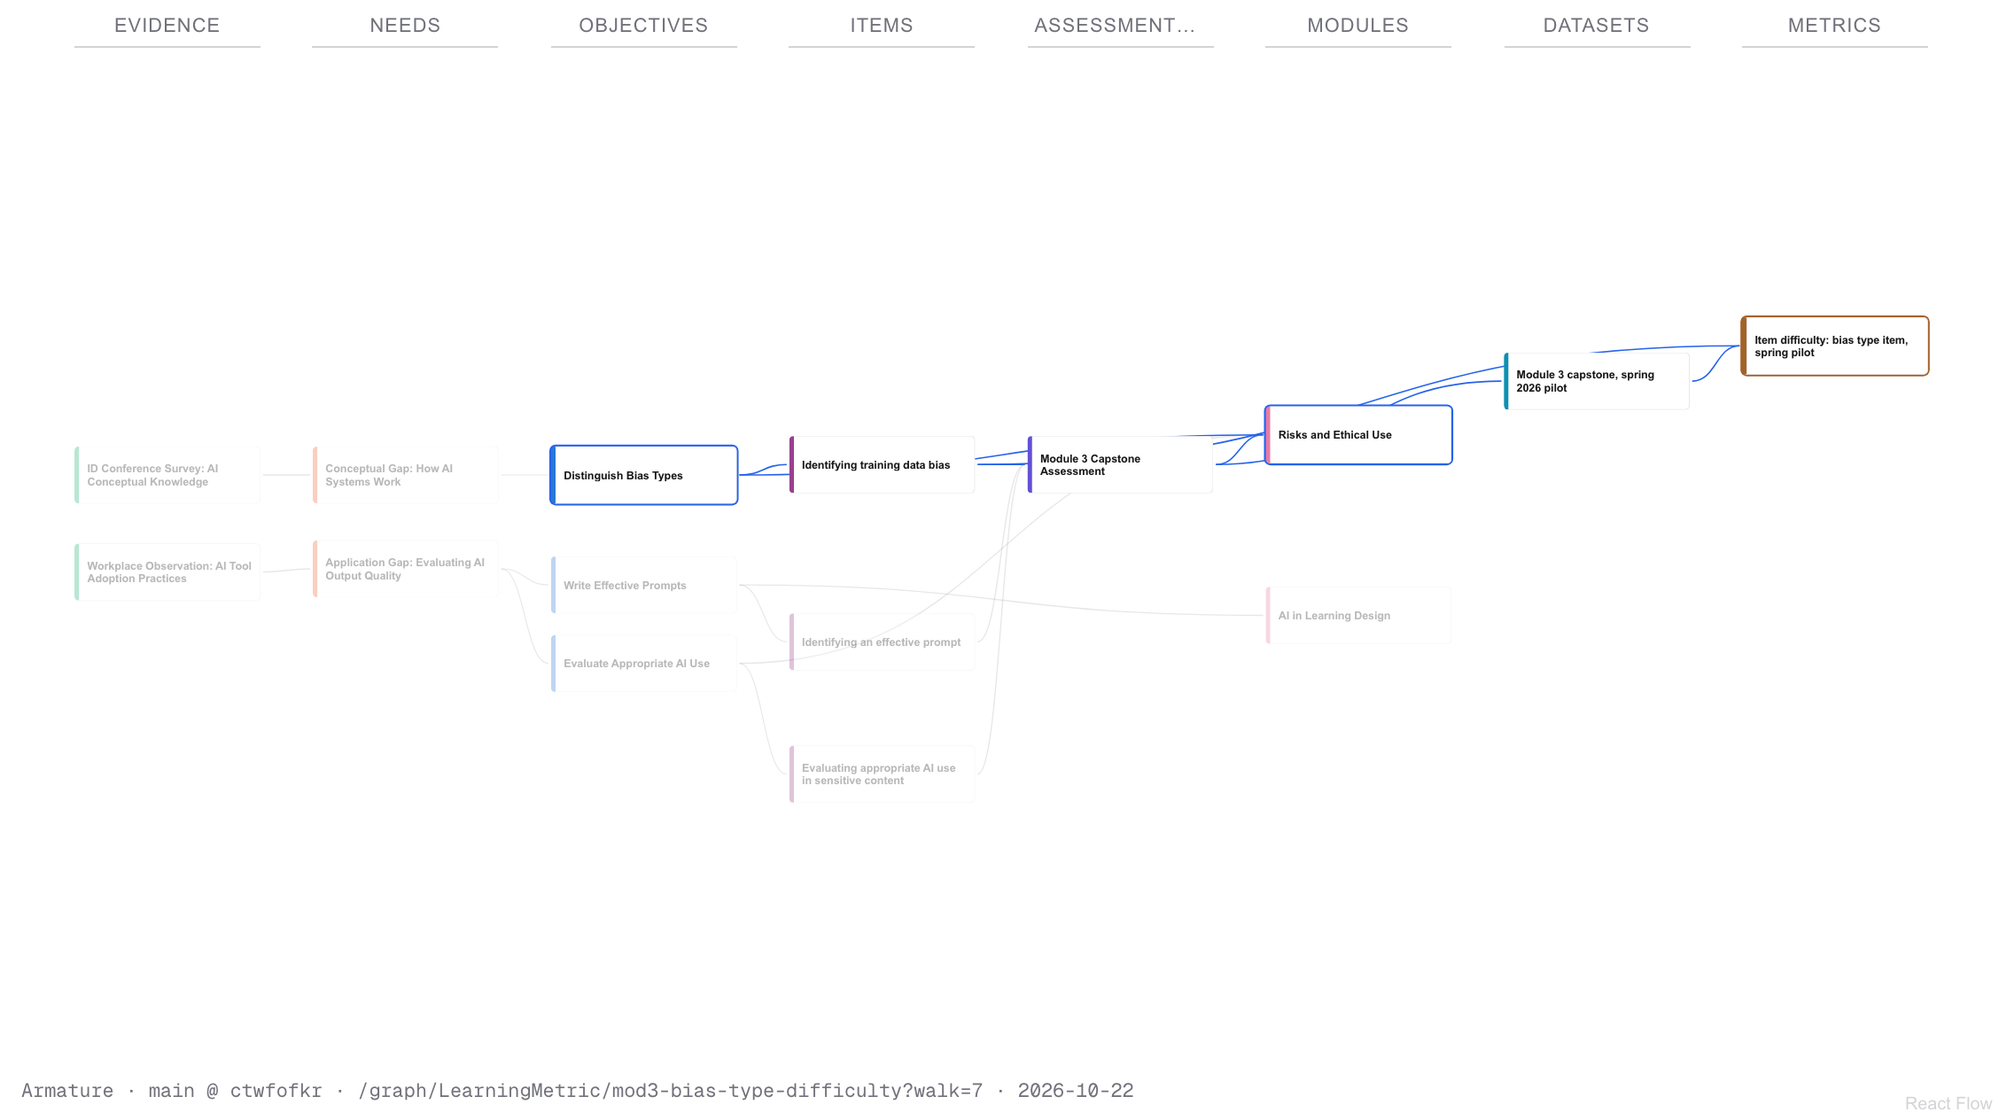
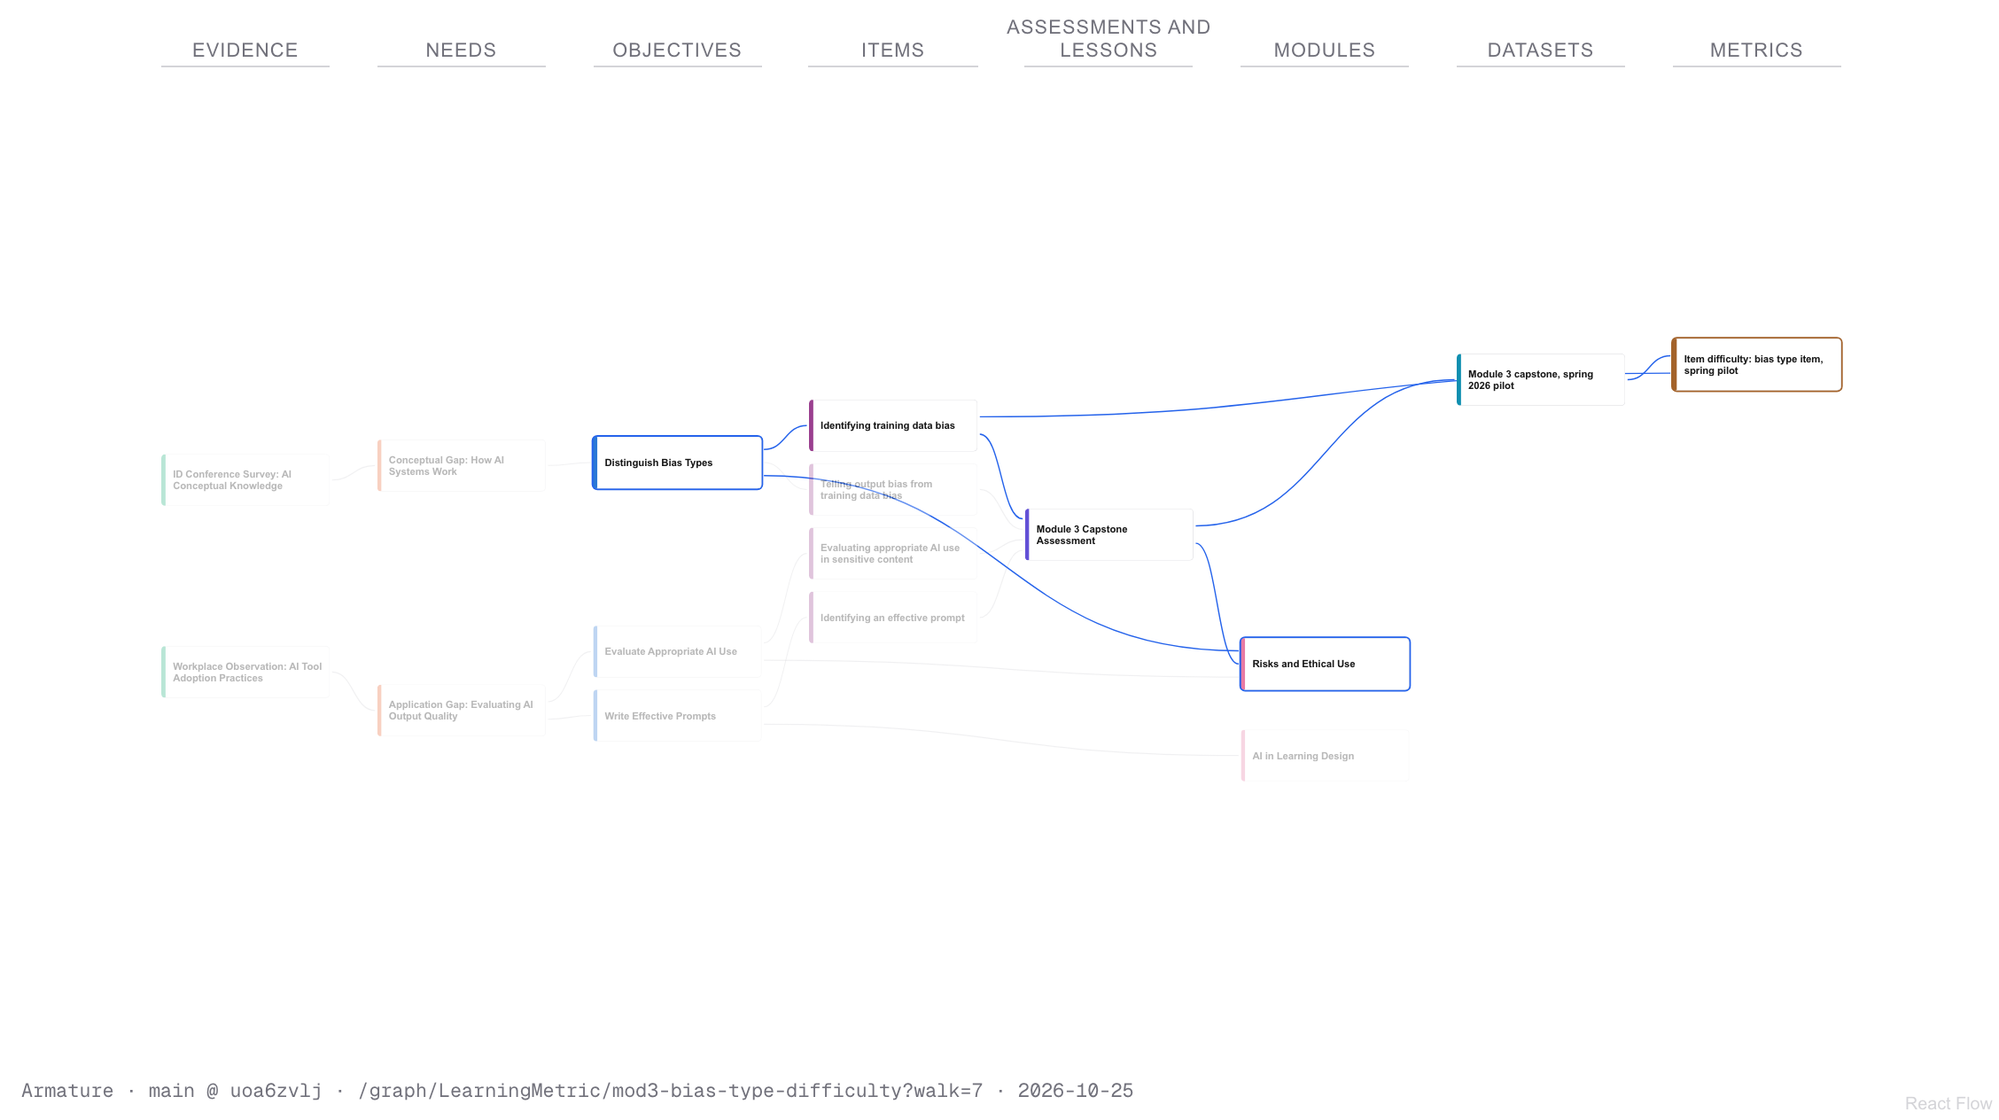
docs: the seed's fourth and fifth commits, the walk's restated step, the Narrative 1 figure re-exported
The explainer's Narrative 1 and seed sections, the project context and
CLAUDE.md describe the finding and the second bias item; the graph plan
gives step 3's restated text and step 8's added records in the seed.
The Narrative 1 figure is step 7 exported again from a fresh seed in
figure mode at the same size, the whole focus graph fitted, so its stamp
names the seed's head.

diff --git a/.claude/CLAUDE.md b/.claude/CLAUDE.md
@@ -67,7 +67,7 @@ scripts/
   generate-schema-appendix.js  # Derives docs/SCHEMA_APPENDIX.md from schema.json
   load_schema.js           # Replaces the schema graph in one full_replace; --clear-instances empties data first for breaking changes
   platform_checks.js       # Probes store behaviors the ADRs depend on, in a scratch database it creates and deletes (run before encoding a platform assumption)
-  seed_data.js             # Inserts the demo course: 61 documents plus their embedded fragments, then one Attestation in a second commit whose asOf names the first, then one LearningDataset and three LearningMetrics in a third (ADR-0063), so Narrative 1 walks on main; a CASE reference on one objective and an xAPI reference on the dataset (ADR-0030); one FullyAssessed declaration (Module 2, prompts); Module 1's activities with a lesson and a formative use (ADR-0005, ADR-0061); an unaligned Draft item (ADR-0060); two Users, the designer and a reviewer, named in createdBy (filled from the schema's classes) and attestedBy. CI runs the operator's check over it
+  seed_data.js             # Inserts the demo course: 61 documents plus their embedded fragments, then one Attestation in a second commit whose asOf names the first, then one LearningDataset and three LearningMetrics in a third (ADR-0063), so Narrative 1 walks on main; then the design's response (2026-10-25): a DesignFinding by the designer with the bias item's difficulty as its evidence, Open, in a fourth, and a second item for the objective, its placement and the finding Addressed in a fifth, so the coverage at the dataset's asOf and now differ; a CASE reference on one objective and an xAPI reference on the dataset (ADR-0030); one FullyAssessed declaration (Module 2, prompts); Module 1's activities with a lesson and a formative use (ADR-0005, ADR-0061); an unaligned Draft item (ADR-0060); two Users, the designer and a reviewer, named in createdBy (filled from the schema's classes) and attestedBy. CI runs the operator's check over it
   migrate_schema_docs.js   # Reproduces past schema documentation migrations
   sync-terminusdb-docs.js  # Vendors TerminusDB docs into docs/vendor/terminusdb (see skill); also npm run sync:terminusdb-docs
 app/
@@ -80,7 +80,7 @@ app/
   app/layout.tsx           # Page shell (titled Armature) with the navigation: Design Graph · Modules, and the branch picker (BranchPicker.tsx, fed by the layout's branches.list(); none when the hub cannot be read)
   e2e/graph.spec.ts        # The browser smoke test (Playwright, playwright.config.ts starts the bundled hub and the built viewer): the seed drawn, a selection, a view from its URL, relationships as nodes, the Focus page and the Walkthrough, every lens, figure mode's stamp and a downloaded PNG, the branch picker, moving around, no console error; CI's viewer job
   lib/
-    graph/                 # The Design Graph's pure modules (no React, no DOM): stages.ts (the visual language as data: stage, hue, glyph per class, the column names with their short forms; a test fails for an artifact class without one), headers.ts (which form of a column header fits its column on screen: the name in two lines, else the short form; widths estimated from the header font, calibrated against measured widths; 2026-10-23), glyphs.ts (Lucide's inner SVG, generated), derive.ts (documents + CLASS_FIELDS → nodes, edges, about, referencedBy; junctions as edges or chips; every edge along the lifecycle), layout.ts (dagre pinned to columns by an anchor chain bounding every node from both sides, the anchor edges weighing almost nothing so real edges order a column; a seed test bounds the crossings), ports.ts (one source port per outgoing edge and one target port per incoming, ordered by the other end's height, so fans and bundles leave and arrive as separate strands; the node draws the handles; 2026-10-23), relations.ts (neighbors, upstream, downstream, the trace mapped on), focus.ts (TRACEABLE checked against the hub by a test, the focus of a trace or of a record's neighbors, restrict), walk.ts (the Walkthrough: buildWalk orders a trace's records one stage per step with templated text, completeWalk fills the coverage and changes steps from reads; tested on the seed's ten steps), state.ts (the view state's URL form, the lens and figure parameters included), grid.ts (the dot grid at three scales: each layer's opacity by its spacing on screen, dots a fixed size on screen; 2026-10-23), lenses.ts (each intelligence read mapped onto the drawing as marks with their words and a legend whose counts are the read's own; the outcomes lens from the export's metrics; namedCommits for the changes lens's choices); fixture.ts for the tests
+    graph/                 # The Design Graph's pure modules (no React, no DOM): stages.ts (the visual language as data: stage, hue, glyph per class, the column names with their short forms; a test fails for an artifact class without one), headers.ts (which form of a column header fits its column on screen: the name in two lines, else the short form; widths estimated from the header font, calibrated against measured widths; 2026-10-23), glyphs.ts (Lucide's inner SVG, generated), derive.ts (documents + CLASS_FIELDS → nodes, edges, about, referencedBy; junctions as edges or chips; every edge along the lifecycle), layout.ts (dagre pinned to columns by an anchor chain bounding every node from both sides, the anchor edges weighing almost nothing so real edges order a column; a seed test bounds the crossings), ports.ts (one source port per outgoing edge and one target port per incoming, ordered by the other end's height, so fans and bundles leave and arrive as separate strands; the node draws the handles; 2026-10-23), relations.ts (neighbors, upstream, downstream, the trace mapped on), focus.ts (TRACEABLE checked against the hub by a test, the focus of a trace or of a record's neighbors, restrict), walk.ts (the Walkthrough: buildWalk orders a trace's records one stage per step with templated text, completeWalk fills the coverage and changes steps from reads, and restates the assessment step when placements were made after asOf (2026-10-25); tested on the seed's ten steps and its revision), state.ts (the view state's URL form, the lens and figure parameters included), grid.ts (the dot grid at three scales: each layer's opacity by its spacing on screen, dots a fixed size on screen; 2026-10-23), lenses.ts (each intelligence read mapped onto the drawing as marks with their words and a legend whose counts are the read's own; the outcomes lens from the export's metrics; namedCommits for the changes lens's choices); fixture.ts for the tests
   server.ts                # The standalone hub's entry: .env.local, PORT (3100) and HOST (loopback by default; the header resolver trusts the caller), startHub, SIGTERM; what build:hub bundles and the container runs
   operator.ts              # The operator tools' command line (ADR-0062): check, delete, put; what build:operator bundles into dist/operator.mjs, which the hub's image carries beside server.mjs
   README.md                # What the app hosts, its env vars, scripts and layout

diff --git a/docs/how-armature-works.md b/docs/how-armature-works.md
@@ -1002,7 +1002,7 @@ The project's context document defines two narratives the system must be able to
 
 The path: metric → dataset → assessment → items → objectives → module declarations → module. The trace read walks it; the coverage read answers the last question. "Adequate *when*?" is answered exactly since ADR-0057 (an Architecture Decision Record) was accepted on 18 October 2026: the dataset records the commit the cohort's assessment was taken from in `asOf`, the metric carries the same value, the trace reports it, and the coverage read at `ref=<asOf>` is the module as the cohort met it. The Narrative 1 test checks all of this.
 
-Since 20 October 2026 the walk runs on the seed itself: `GET /api/v1/intelligence/trace/LearningMetric/mod3-bias-type-difficulty` starts from an item that was approved and attested yet answered correctly by only 38% of the pilot cohort, and the coverage read at the dataset's `asOf` shows the module's one item for that objective. Since 22 October 2026 the viewer walks it on the page: "trace this result" on the Coverage View opens the Walkthrough (Section 18), ten steps from the result to the evidence, the seventh answering "adequate when?" from the coverage read at that commit.
+Since 20 October 2026 the walk runs on the seed itself: `GET /api/v1/intelligence/trace/LearningMetric/mod3-bias-type-difficulty` starts from an item that was approved and attested yet answered correctly by only 38% of the pilot cohort, and the coverage read at the dataset's `asOf` shows the module's one item for that objective. Since 22 October 2026 the viewer walks it on the page: "trace this result" on the Coverage View opens the Walkthrough (Section 18), ten steps from the result to the evidence, the seventh answering "adequate when?" from the coverage read at that commit. Since 25 October 2026 the seed also carries the design's response to the result, so the two readings differ: the designer raised a finding on the bias item that cites the pilot's difficulty as its evidence (one item cannot separate a gap in learning from a flaw in the item), and a later commit added a second item for the objective and marked the finding addressed. The seventh step now reads `PartiallyAssessed` with one eligible item when the cohort met the design and `FullyAssessed` with two today, and the third says that one of the assessment's four placements was made after the cohort's commit.
 
 ![The Walkthrough's seventh step on the seed, exported from the page: the lit path from the result's objective through the item and the assessment to the module and the dataset, the rest of the record's neighborhood dimmed, the stamp naming the branch, commit, view and date.](figures/narrative-1-adequate-when.png)
 
@@ -1022,7 +1022,7 @@ This narrative demonstrates Armature as design-time intelligence.
 
 > **[Brevity candidate]** Details of the demonstration data could move to an appendix.
 
-The repository includes a demonstration graph (`scripts/seed_data.js`), a realistic but fictional course about artificial intelligence (AI): **"Introduction to AI for Instructional Designers."** It holds 61 documents (plus their embedded parts), written in one commit; one attestation written in a second commit so that it can name the first as the state it judged; and, since 20 October 2026 (ADR-0063), one dataset and three metrics written in a third commit that also names the first: one administration of the Module 3 capstone to a spring pilot cohort, with the difficulty of two items and the cohort's mean score. One objective carries a CASE competency reference and the dataset an xAPI activity reference (ADR-0030). The first commit holds:
+The repository includes a demonstration graph (`scripts/seed_data.js`), a realistic but fictional course about artificial intelligence (AI): **"Introduction to AI for Instructional Designers."** It holds 61 documents (plus their embedded parts), written in one commit; one attestation written in a second commit so that it can name the first as the state it judged; and, since 20 October 2026 (ADR-0063), one dataset and three metrics written in a third commit that also names the first: one administration of the Module 3 capstone to a spring pilot cohort, with the difficulty of two items and the cohort's mean score. Since 25 October 2026 two more commits record the design's response (ADR-0020): a finding by the designer on the bias item, regarding its objective, with the bias item's difficulty as its evidence and the results commit as its `asOf`, raised open; then a second item for the same objective, placed in the capstone, and the finding marked addressed with its resolution. The finding's history is the two commits. One objective carries a CASE competency reference and the dataset an xAPI activity reference (ADR-0030). The first commit holds:
 
 - 1 course, 3 modules, 3 assessments;
 - 2 learning needs, each grounded in descriptive evidence through a need-evidence link;
@@ -1032,7 +1032,7 @@ The repository includes a demonstration graph (`scripts/seed_data.js`), a realis
 - 7 module-objective declarations, whose coverage covers the range: one `FullyAssessed` (Write Effective Prompts in Module 2, with two approved items), the rest `PartiallyAssessed` or `Uncovered`;
 - Module 1's activities: a practice activity and a lesson of two (a video and a worked example), placed in one sequence (ADR-0005), with the unaligned draft item used as a check inside the worked example (ADR-0061);
 - 2 design notes (one about an item, one about a module's declaration of an objective, demonstrating that relationships can be annotated);
-- 1 design finding, open, on the draft item, raised by the reviewer;
+- 1 design finding, open, on the draft item, raised by the reviewer (the fourth commit adds a second, the designer's, described above);
 - 2 users: the demo designer, and a subject-matter reviewer from a partner college. Every record whose type carries a creator names one of them (the reviewer the finding, the designer the rest), so an export's pseudonymous and institutional profiles have two people to rewrite;
 - 1 attestation: the reviewer affirms that the bias item's first option is its only correct answer, a claim about one part of an approved item (ADR-0028).
 

diff --git a/docs/graph-view-plan.md b/docs/graph-view-plan.md
@@ -198,12 +198,12 @@ The Focus page with the stepper. Each step: the camera pans and zooms to the ste
 |---|---|---|
 | 1 · The result | `LearningMetric` | "{value} {unit} on *{item}*, {cohort}, {date}." (0.38 proportion correct; spring 2026 pilot). "A metric names what it measures (`subject`) and where it came from (`derivedFrom`); it is never a field on the item (ADR-0058)." |
 | 2 · The administration | `derivedFrom` → `LearningDataset` | "The dataset records which assessment produced it and the commit the cohort met: *as of {asOf}*." The `asOf` chip is lit. "Everything after this step is read at that commit." |
-| 3 · The assessment | `producedBy` → `Assessment` | "{n} items were placed in *{assessment}*; {approved} placements were approved." The placement edges fan out. |
+| 3 · The assessment | `producedBy` → `Assessment` | "{n} items were placed in *{assessment}*; {approved} placements were approved." When the changes read shows placements made after `asOf`: "{n} items are placed in *{assessment}* today, {approved} of them approved. {k} were placed after the cohort's commit, so the cohort met {n − k}." (2026-10-25: the trace describes the assessment as it stands.) The placement edges fan out. |
 | 4 · The item | placement edge → `AssessmentItem` | "*{label}*, {status}, {bloomsLevel}. Attested {verdict} on {part} by {attester}; the verdict is {state} against the part as it stands now." Findings and notes, if any. |
 | 5 · The objective | `assesses` → `LearningObjective` | "The item assesses *{objective}*. {k} other items placed in this module assess it too." |
 | 6 · The declaration | `ModuleObjective` edge → `Module` | "*{module}* declares the objective as {role} (#{sequence}): {roleRationale}." |
 | 7 · Adequate when? | the module, with the coverage read at `?ref=<asOf>` | "When the cohort met the design, *{objective}* was **{verdict then}** ({items then} eligible items); today it is **{verdict now}** ({items now})." A link to the Coverage View at the dataset's `asOf`. "Coverage is computed at a ref, never stored (ADR-0056, ADR-0057)." |
-| 8 · Then and now | the whole focus graph, **Then / Now** toggle | The graph re-read at `asOf` beside the head: records added since are outlined (in the seed: the attestation and the outcome records themselves, which did not exist when the cohort sat the assessment). "The design history is the commit graph (ADR-0025)." |
+| 8 · Then and now | the whole focus graph, **Then / Now** toggle | The graph re-read at `asOf` beside the head: records added since are outlined (in the seed: the attestation and the outcome records themselves, which did not exist when the cohort sat the assessment, and since 2026-10-25 the designer's finding and the second bias item that addressed it). "The design history is the commit graph (ADR-0025)." |
 | 9 · Why this objective? | `generatedBy` → `LearningNeed` | "*{need}*, {priority}: {rationale}." |
 | 10 · The evidence | `NeedEvidenceLink` edge → `DescriptiveEvidence` | "*{evidence}* ({confidence} confidence): {description}. The loop closes: a measurement led back to the evidence that justified the design." |
 
@@ -247,7 +247,7 @@ Lenses compose with the class filters and the relations. Two lenses at once was 
 | Changes | `GET /branches/:name/changes?since=` | The Changes lens; step 8 |
 | Branches | `GET /branches` | The branch picker |
 
-The export is the whole graph, which is the right source at the scale the project is at (66 documents in the seed; a real course is a few hundred to a few thousand) and the wrong one past a few thousand. §12 names the ceiling and what replaces it. The export's `profile=full` includes `User` documents; the viewer drops them before serializing, so no person reaches the browser (the pseudonymous profile is not needed for that).
+The export is the whole graph, which is the right source at the scale the project is at (69 documents in the seed; a real course is a few hundred to a few thousand) and the wrong one past a few thousand. §12 names the ceiling and what replaces it. The export's `profile=full` includes `User` documents; the viewer drops them before serializing, so no person reaches the browser (the pseudonymous profile is not needed for that).
 
 ### 9.2 Modules
 

diff --git a/.claude/PROJECT_CONTEXT.md b/.claude/PROJECT_CONTEXT.md
@@ -102,7 +102,7 @@ This demonstrates Armature as pre-delivery design-time intelligence.
 - Local: TerminusDB in Docker Compose, the hub on the machine (`npm run start:hub`) and the viewer (`npm run dev`) for screen-capture video
 - An instance (since 2026-10-21): `docker compose --profile hub up` runs three containers on one private network, the store, the hub (`docker/hub.Dockerfile`) and the viewer (`docker/viewer.Dockerfile`), all on loopback, and `--profile public` adds Caddy as the only public container (HTTPS for the instance's domain); `docs/deployment.md`
 - Web: that compose file on one hosted server for stakeholder access (chosen 2026-10-21: a small virtual private server running the compose file as is, a DigitalOcean Droplet with 2 virtual CPUs and 4 GB, over Railway, Render, Fly.io and DigitalOcean's App Platform, which has no persistent volumes; rehearsed the same day on a local Ubuntu VM, then run on a Droplet at `armature.amosglenn.com`, verified from outside and destroyed by choice; none is running)
-- Seed data: A realistic but fictional course ("Introduction to AI for Instructional Designers", 61 documents, then one attestation in a second commit, then one dataset and three metrics in a third, since 2026-10-20; since 2026-10-22 one `FullyAssessed` declaration, Module 1's activities with a lesson and a formative use, an unaligned draft item, and two people, the designer and a reviewer, named in `createdBy` and `attestedBy`). Narrative 1 walks on `main` from `LearningMetric/mod3-bias-type-difficulty`
+- Seed data: A realistic but fictional course ("Introduction to AI for Instructional Designers", 61 documents, then one attestation in a second commit, then one dataset and three metrics in a third, since 2026-10-20; since 2026-10-22 one `FullyAssessed` declaration, Module 1's activities with a lesson and a formative use, an unaligned draft item, and two people, the designer and a reviewer, named in `createdBy` and `attestedBy`; since 2026-10-25 the design's response in a fourth and fifth commit: the designer's finding citing the pilot's difficulty, then a second bias item and the finding addressed, so "adequate when?" reads `PartiallyAssessed` then and `FullyAssessed` now). Narrative 1 walks on `main` from `LearningMetric/mod3-bias-type-difficulty`
 
 ---
 
